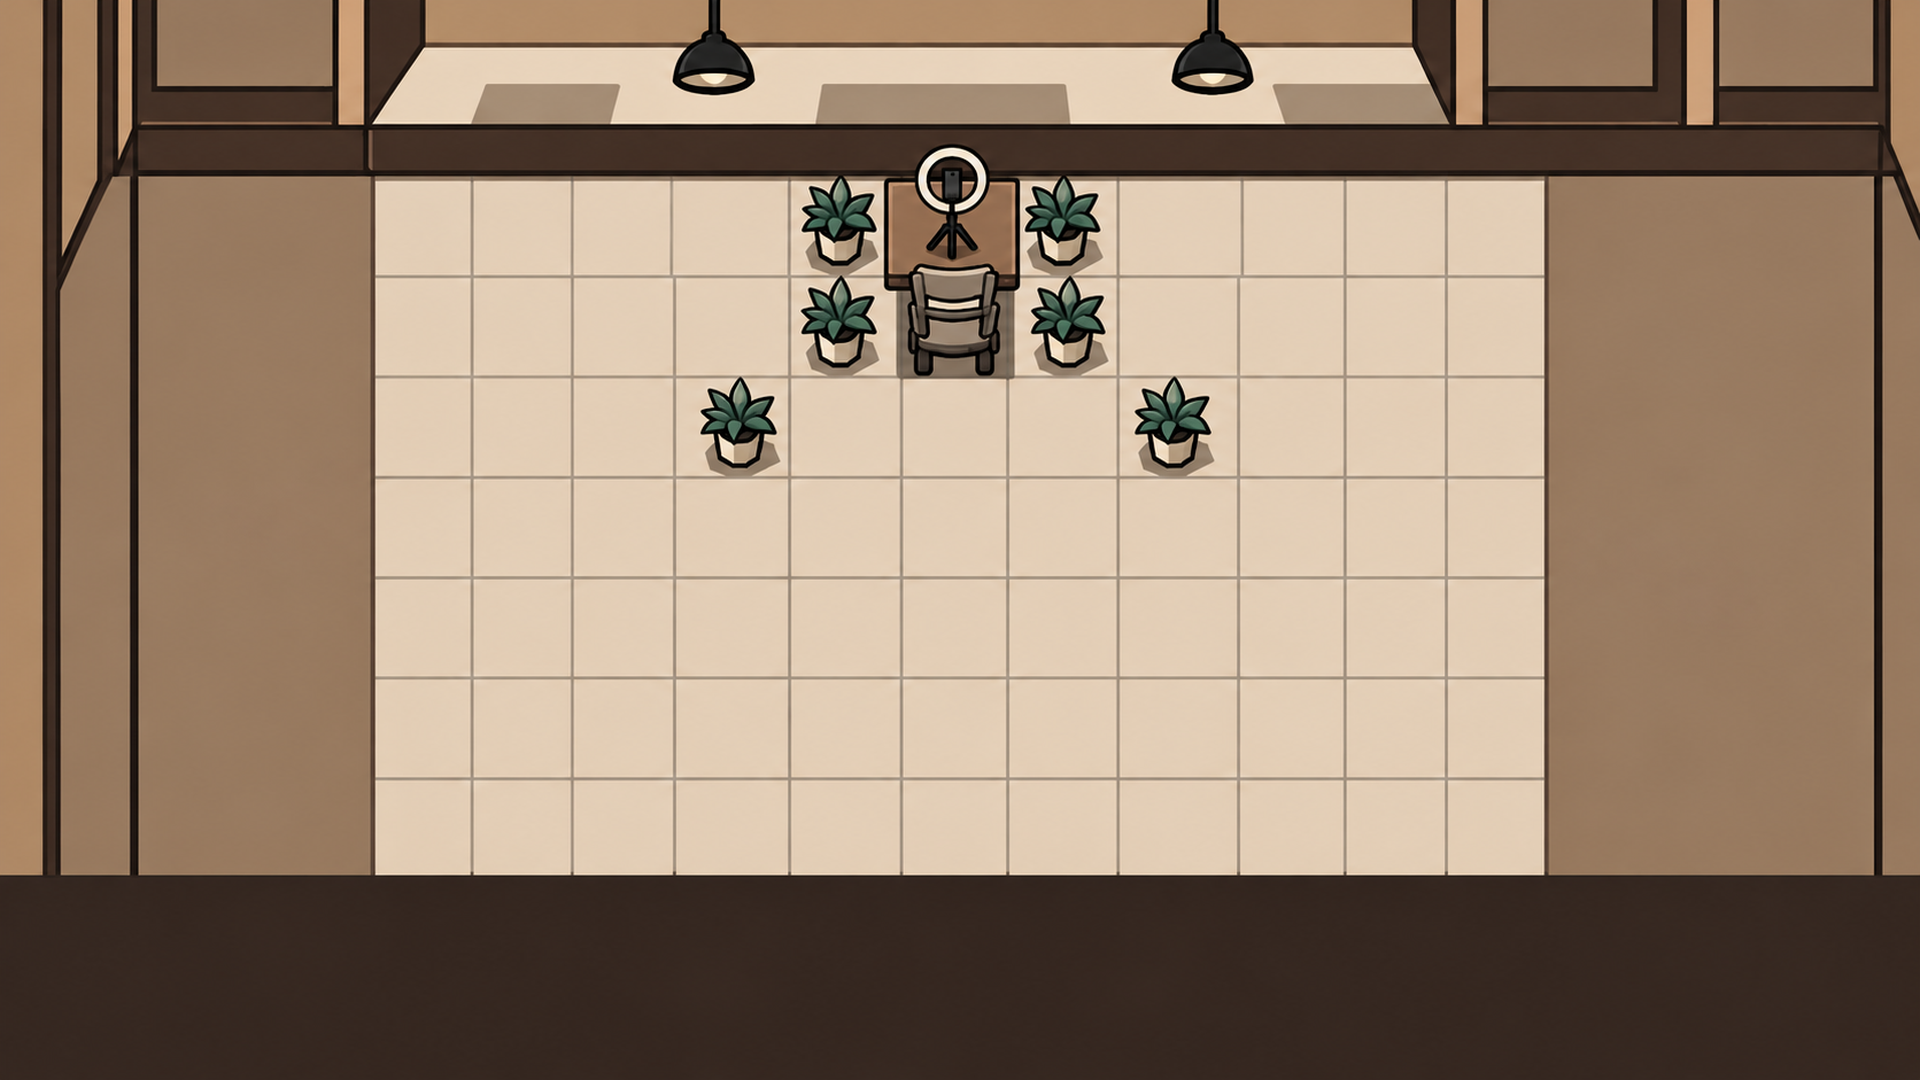
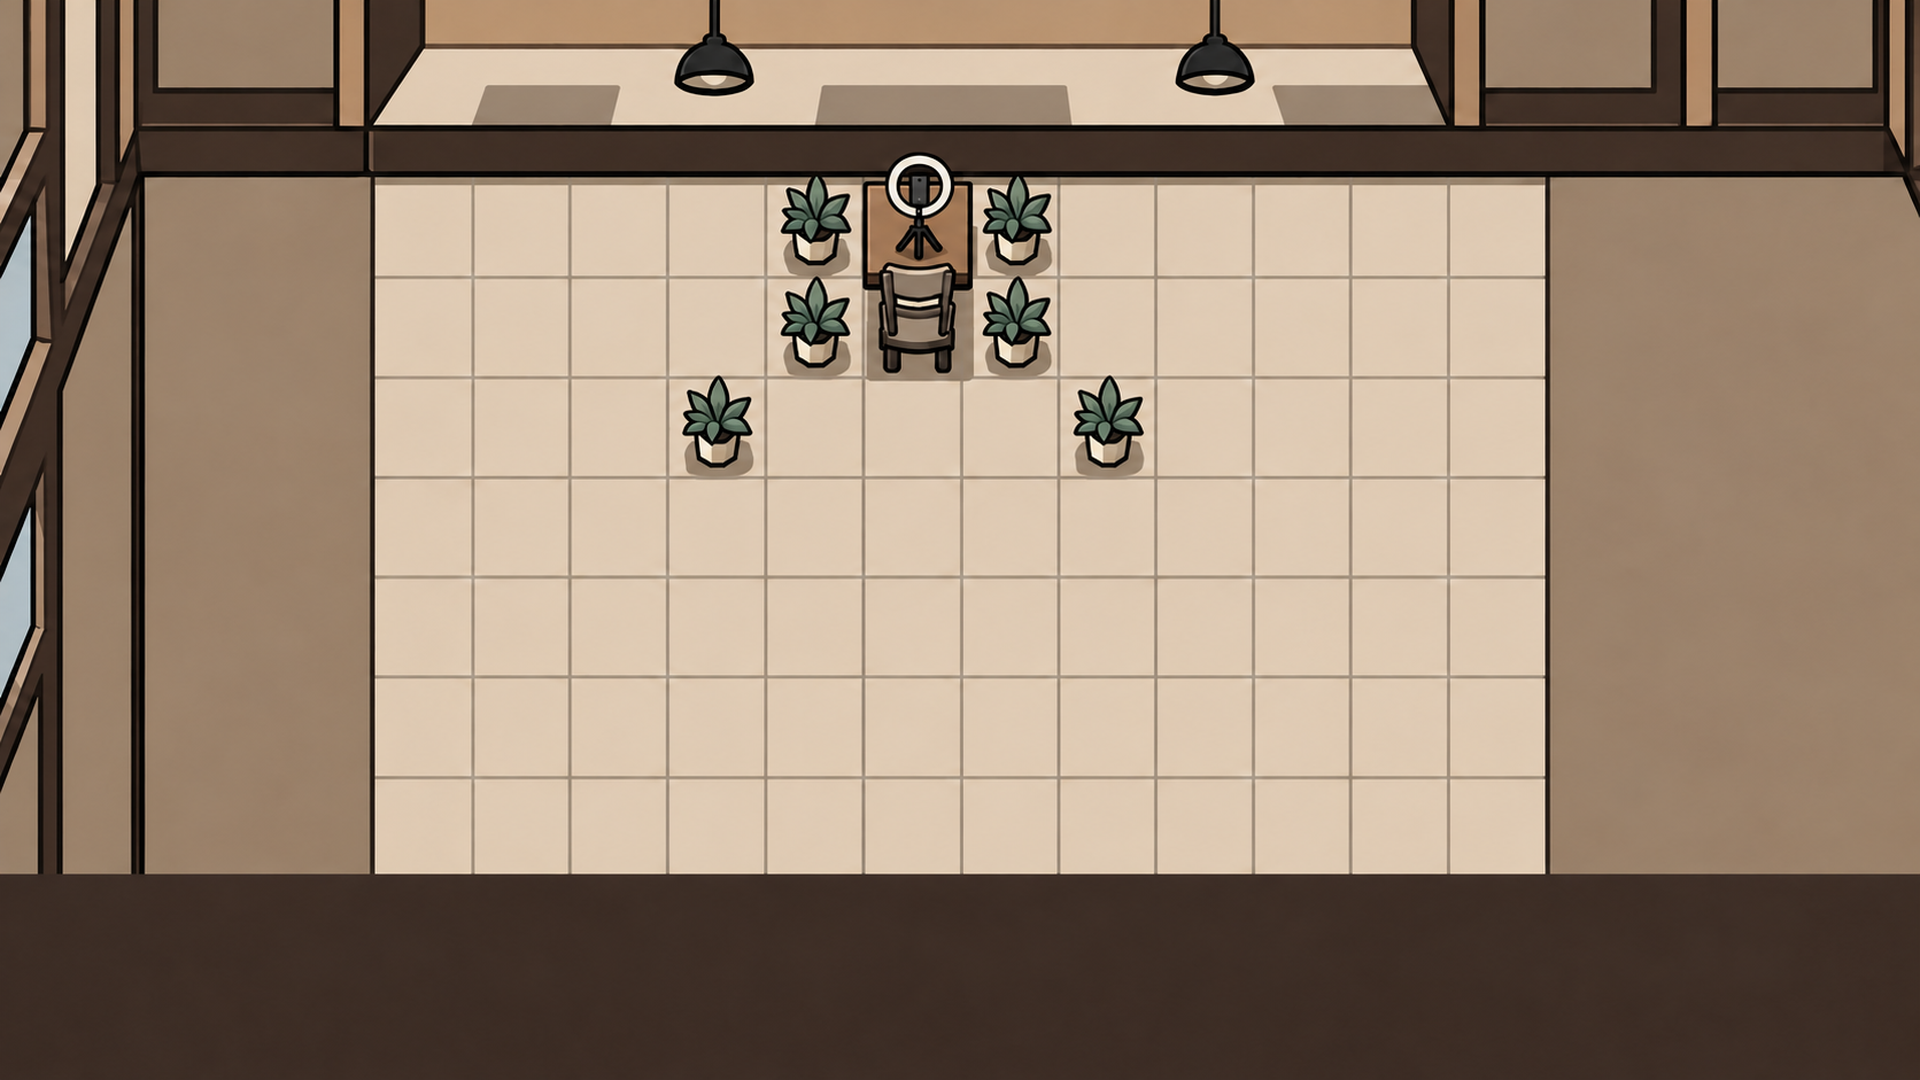
B 테마 3번 판 배경을 고른 격자로 다시 그림(Codex)
가운데 줄이 넓던 bg-encore를 다시 그려 격자를 재서 등록했다. 화분과 빌런이 막히는 칸에 맞는 것을 격자를 겹쳐 확인했다.

diff --git a/assets/manifest.js b/assets/manifest.js
@@ -39,7 +39,7 @@ window.VILLAIN_ASSETS = {
     'player-right': 'assets/b/player-right.png',
     'outlet-mine': 'assets/b/outlet-mine.png',
     'bg-streamer': 'assets/b/bg-streamer.png',
-    // 'bg-encore'는 가운데 네 줄이 다른 줄보다 넓게 그려져 칸과 맞출 수 없어서 등록을 뺐다(2026-10-29 Claude Code 검토). 다시 그리면 등록한다.
+    'bg-encore': 'assets/b/bg-encore.png',
     'streamer-idle': 'assets/b/streamer-idle.png',
     'streamer-react': 'assets/b/streamer-react.png',
     'streamer-portrait': 'assets/b/streamer-portrait.png',

diff --git a/assets/bg-grid.js b/assets/bg-grid.js
@@ -12,5 +12,6 @@ window.VILLAIN_BG_GRID = {
   b: {
     'bg-sleeper': { left: 371, top: 178, right: 1547, bottom: 875 },
     'bg-streamer': { left: 372, top: 177.5, right: 1547, bottom: 875 },
+    'bg-encore': { left: 372, top: 177.5, right: 1547, bottom: 875 },
   },
 };
